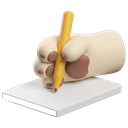
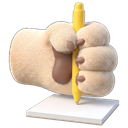
иконки: одинаковые лапы, крупный блокнот, мультяшные глаза у fail
Три правки по замечаниям к прогону.

Лапы обратной связи были разного размера: у пальца вниз одна кисть,
у пальца вверх модель дорисовала целое предплечье, и кисть вышла вдвое
мельче. Клауза PAW теперь требует показать лапу по запястье, без
предплечья и без ноги, одного размера во всех трёх кадрах; прогон делается
с принятой лапой в --anchor, и он же задаёт масштаб.

У bully_detail блокнот уменьшен и убран под лапу: крупная в кадре именно
лапа, иначе на 128 px жест теряется среди канцелярии.

У bully_fail первый прогон дал реалистичные слезящиеся глаза — остальной
пак мультяшный, и иконка выпадала из набора. В подстановке теперь сказано,
чем грустить: уши вниз, рот скорбной чертой, а глаза остаются как на
референсах. Размер и форма глаз — это узнаваемость персонажа, и в носители
выражения они не входят.

Claude-Session: https://claude.ai/code/session_01P6FbspjU9fFr6Gxc8sAvGG

diff --git a/иконки/prompt-each.md b/иконки/prompt-each.md
@@ -104,10 +104,11 @@ frame: the same cream fur, the same soft studio lighting and the same 3D render
 as the attached references, with soft rounded brown pads. It is a dog's paw, not
 a human hand — broad, with short thick toes and visible pads, never human
 fingers, never a glove. There is no badge in a PAW image: no circle, no rays, no
-gradient, just the paw on flat grey background. Show the paw itself, centred in
-the frame, with no leg behind it or at most a very short stub: the whole shape
-sits fully inside the frame with clear grey background on all four sides, and
-nothing is cut off by any edge.
+gradient, just the paw on flat grey background. Show ONLY the paw itself,
+cropped at the wrist: no forearm, no leg, no shoulder, nothing of the rest of
+him. The paw is centred and fills most of the frame — it is the same size in
+every PAW image, as big as it can be while still leaving clear grey background
+on all four sides, and nothing is cut off by any edge.
 
 Change ONLY this: <ЯЧЕЙКА>
 
@@ -175,7 +176,27 @@ no label, no watermark, no border, no frame.
 кадра», и модель пририсовывает морду к лапе.
 
 `bully_detail` — та же лапа с ручкой над чистым блокнотом: «написать
-подробнее».
+подробнее». Блокнот маленький и лежит под лапой: крупная в кадре именно лапа,
+иначе на 128 px жест теряется среди канцелярии.
+
+**Размер кисти во всех трёх одинаковый**, и держится он двумя вещами:
+клауза требует показать лапу по запястье, без предплечья, а прогон делается
+с уже принятой лапой в `--anchor`. Без первого модель дорисовывает лапе
+целую руку, и палец вверх выходит вдвое мельче пальца вниз — так и было
+на первом прогоне.
+
+## Грусть — ушами и ртом, а не глазами
+
+У `bully_fail` первый прогон дал реалистичные слезящиеся глаза: остальной пак
+мультяшный, а тут вдруг настоящая несчастная собака, и иконка выпадала из
+набора. Модель поняла «sad apologetic face» как задачу нарисовать грусть
+целиком, включая глаза.
+
+Поэтому в подстановке прямо сказано, ЧЕМ грустить: уши вниз, рот скорбной
+чертой, **а глаза остаются как на референсах** — огромные, круглые, глянцевые,
+с теми же бликами, не реалистичные и не заплаканные. Это общее правило пака:
+у выражения есть носители, и глаза в них не входят — их размер и форма
+и есть узнаваемость персонажа.
 
 ## Светло-серая плашка и вырезание фона
 
@@ -201,11 +222,11 @@ no label, no watermark, no border, no frame.
 |---|---|
 | `bully_ready` | `BADGE blue. Blue denim cap. Chin lifted proudly, chest puffed up, wide happy open smile, one front paw raised in a confident presenting gesture. Nothing else in the image.` |
 | `bully_done` | `BADGE green. GREEN denim cap. Eyes closed in a satisfied happy smile, a big bright white check mark beside the head inside the badge.` |
-| `bully_fail` | `BADGE red. RED denim cap. Ears drooping down, sad apologetic face, a big bright white cross mark beside the head inside the badge.` |
+| `bully_fail` | `BADGE red. RED denim cap. Sad apologetic face, ears drooping down, mouth a small unhappy line — the sadness is in the ears and the mouth, NOT in the eyes. The eyes stay exactly as in the attached references: huge, round, glossy, cartoon dark-brown eyes with the same big white highlights. They are not realistic dog eyes, not watery, not teary, not wrinkled, not narrowed. A big bright white cross mark beside the head inside the badge.` |
 | `bully_hi` | `BADGE blue. Blue denim cap. One front paw raised high beside the head waving hello, big warm open smile, ears perked up. Nothing else in the image.` |
 | `bully_helpful` | `PAW. A big thumbs-up made with one front paw: the paw held upright, the side toe sticking straight up like a thumb, the other toes curled in, pads facing forward. Confident and friendly.` |
 | `bully_not_helpful` | `PAW. A big thumbs-down made with one front paw: the paw held upside down, the side toe pointing straight down like a thumb, the other toes curled in. Nothing else in the image.` |
-| `bully_detail` | `PAW. One front paw holding a short thick yellow pen upright and writing on a small blank white notepad, seen close up. The notepad is blank: no writing, no lines, no letters on it.` |
+| `bully_detail` | `PAW. One front paw holding a short thick yellow pen upright and writing on a small blank white notepad. The paw is the biggest thing in the image and the notepad is small beneath it. The notepad is blank: no writing, no lines, no letters on it.` |
 | `bully_search` | `BADGE blue. Blue denim cap. Holding a big magnifying glass up in front of one eye, that eye hugely magnified through the lens, the other eye normal size, focused curious expression.` |
 | `bully_high` | `BADGE green. GREEN denim cap. Calm confident closed-mouth smile, eyes bright and steady, ears perked up, head straight. Nothing else in the image at all: no object, no raised paws, no symbol. The green badge is the whole signal.` |
 | `bully_mid` | `BADGE amber-yellow. AMBER-YELLOW denim cap. Head tilted to one side, one eyebrow raised higher than the other, mouth a small wavy unsure line, one ear up and one ear half down. Nothing else in the image at all: no object, no raised paws, no symbol.` |
